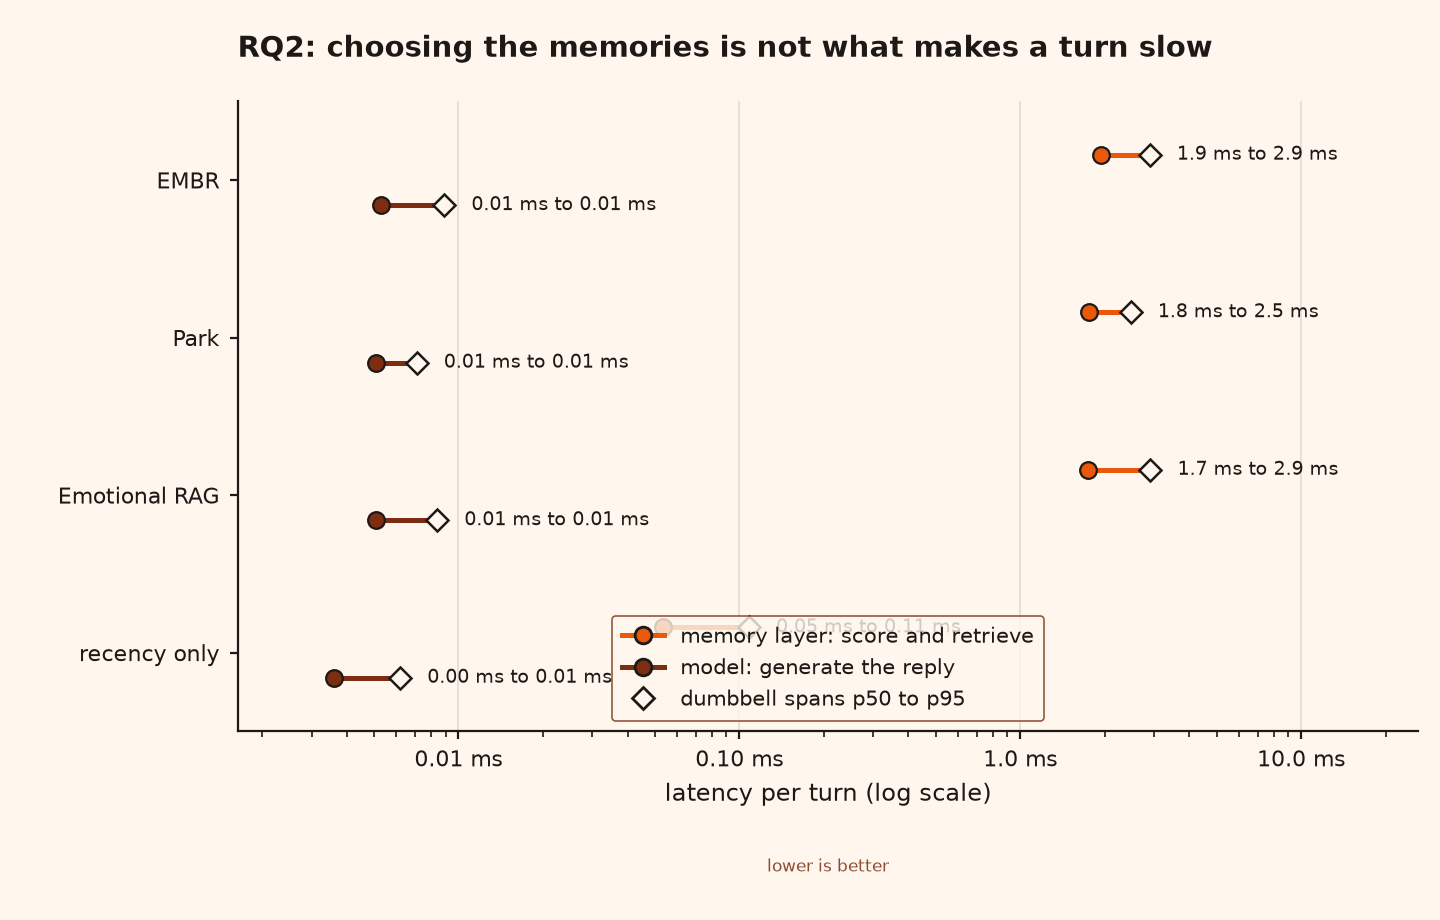
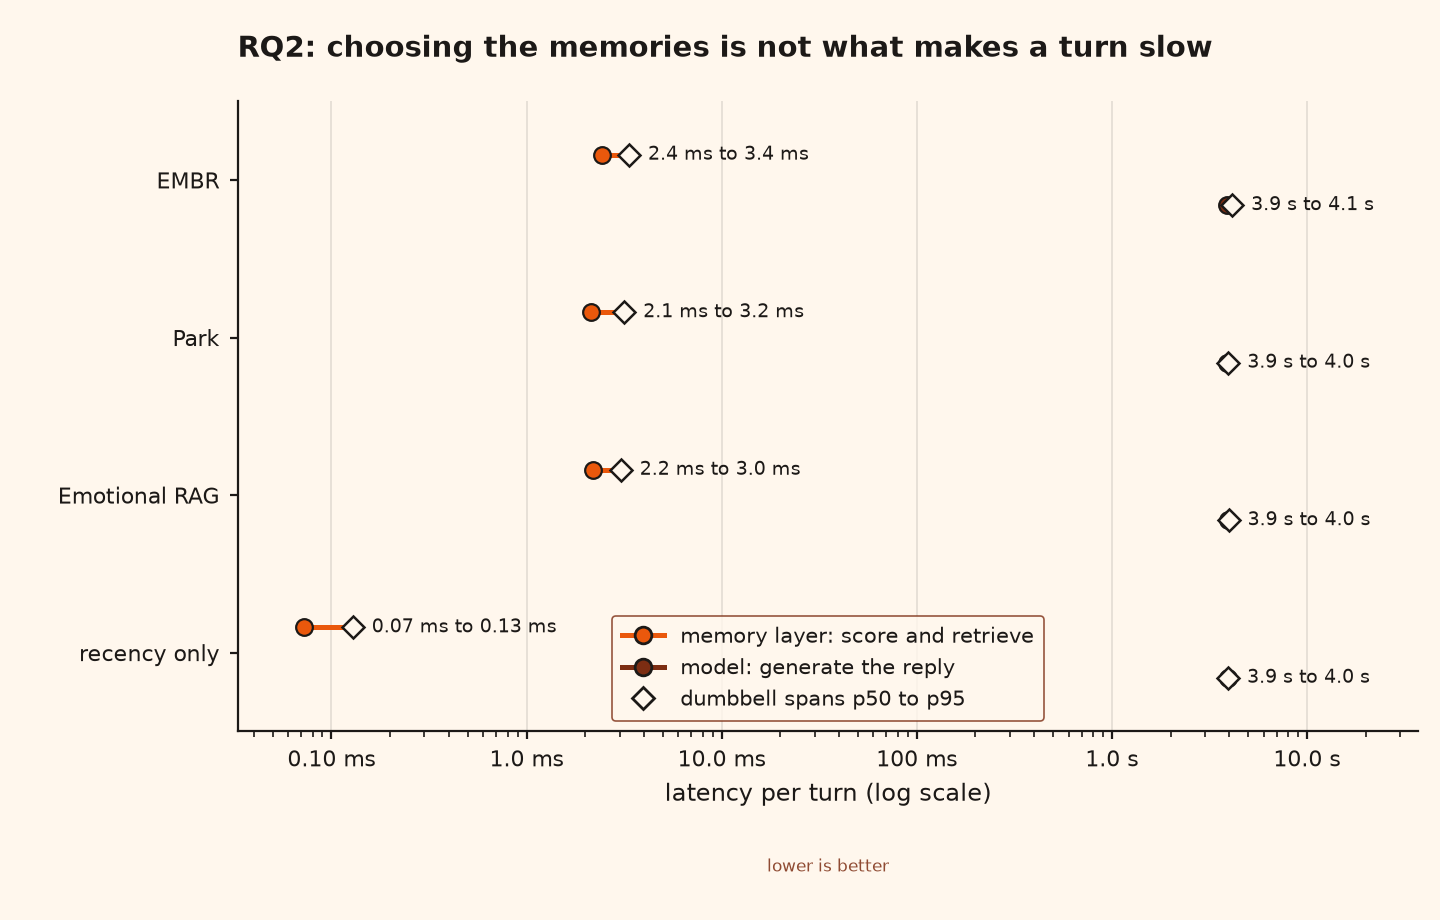
Re-measure tone on a real model, and confirm the retraction was right
The full protocol re-run on llama3.2:3b with undefined readings separated,
run 20260819-065943, and the retracted claim does not come back.

On false memory both EMBR and Park are 0.000, not 1.000 and 1.200. The old
reversal was the sentinel and nothing else: Park's figure rested on one defined
cell out of five. On emotion flip the two are identical at 0.750. Nothing in the
tone channel ranks these systems differently and no such claim should return.

The Emotional RAG zero is resolved against the mood-inertness story this repo
previously preferred, and in favour of the mundane explanation the audit
offered: zero defined cells out of five. It was never a measurement.

One new finding survives. EMBR is the only variant with non-zero tone drift on
role_override, 0.400 over five defined cells against 0.000 everywhere else.
Role override writes nothing to the store, so retrieval is untouched by
construction and the tone moves anyway. That is the state channel acting alone
with the retrieval channel pinned at zero, which is a cleaner demonstration than
the injection attacks give because no stored memory confounds it.

Figures and tables rebuilt from the corrected run, and the README now leads with
the anchored-mass defence rather than the vulnerability.

diff --git a/data/tables/rq3_retrieval.tex b/data/tables/rq3_retrieval.tex
@@ -1,6 +1,6 @@
-% EMBR table rq3_retrieval: run_dir=data\runs\20260819-061120, git_commit=0097390448caea68e11a0135d4bd30ffc2df9fc3 (dirty working tree), label_version=v1, model=stub
-% label_set=dawn-whitmore, label_sha256=5d5f38bc31c6230b8805964de2b56866cbcbb4c422133ca91aa68584e2ad1b82, results generated_at=2026-08-19T06:11:20.291391+00:00
-% Requires \usepackage{booktabs}. Flat twin: rq3_retrieval.csv. Rebuild: python assets/build_tables.py data\runs\20260819-061120
+% EMBR table rq3_retrieval: run_dir=data\runs\20260819-065943, git_commit=7aadb4290033aad0427f06b1324d0a981052e78d (dirty working tree), label_version=v1, model=llama3.2:3b (local)
+% label_set=dawn-whitmore, label_sha256=5d5f38bc31c6230b8805964de2b56866cbcbb4c422133ca91aa68584e2ad1b82, results generated_at=2026-08-19T06:59:43.383308+00:00
+% Requires \usepackage{booktabs}. Flat twin: rq3_retrieval.csv. Rebuild: python assets/build_tables.py data\runs\20260819-065943
 % If the tabular overflows the text block, make the float a table* or wrap the tabular in \resizebox{\linewidth}{!}{...}.
 % results.json rq3.metadata.tuning_protocol: tuned and ablation rows are leave-one-query-out
 % cross-validated: each query is scored under weights fit on the other nine, so no variant is
@@ -29,9 +29,9 @@
     overlapping intervals must not be read as evidence of no difference, and the interval on the
     quantity actually tested is the paired one in Table~\ref{tab:embr-rq3-comparisons}. P@3 is
     precision at rank 3 and R@5 is recall at rank 5. Every number here is preliminary: it was
-    produced on the stub model with the deterministic lexical embedder, against the dawn-whitmore v1
-    labels, which are pre-registered but single-author; the blind multi-annotator pass with
-    agreement statistics is still to come. Do not read an ordering off this table.
+    produced on the llama3.2:3b (local) model with the deterministic lexical embedder, against the
+    dawn-whitmore v1 labels, which are pre-registered but single-author; the blind multi-annotator
+    pass with agreement statistics is still to come. Do not read an ordering off this table.
   }
   \label{tab:embr-rq3-retrieval}
   \small

diff --git a/data/tables/rq2_robustness.tex b/data/tables/rq2_robustness.tex
@@ -1,6 +1,6 @@
-% EMBR table rq2_robustness: run_dir=data\runs\20260819-061120, git_commit=0097390448caea68e11a0135d4bd30ffc2df9fc3 (dirty working tree), label_version=v1, model=stub
-% label_set=dawn-whitmore, label_sha256=5d5f38bc31c6230b8805964de2b56866cbcbb4c422133ca91aa68584e2ad1b82, results generated_at=2026-08-19T06:11:20.291391+00:00
-% Requires \usepackage{booktabs}. Flat twin: rq2_robustness.csv. Rebuild: python assets/build_tables.py data\runs\20260819-061120
+% EMBR table rq2_robustness: run_dir=data\runs\20260819-065943, git_commit=7aadb4290033aad0427f06b1324d0a981052e78d (dirty working tree), label_version=v1, model=llama3.2:3b (local)
+% label_set=dawn-whitmore, label_sha256=5d5f38bc31c6230b8805964de2b56866cbcbb4c422133ca91aa68584e2ad1b82, results generated_at=2026-08-19T06:59:43.383308+00:00
+% Requires \usepackage{booktabs}. Flat twin: rq2_robustness.csv. Rebuild: python assets/build_tables.py data\runs\20260819-065943
 % If the tabular overflows the text block, make the float a table* or wrap the tabular in \resizebox{\linewidth}{!}{...}.
 % results.json rq2.metadata.note: Reply tone is rated on the deterministic stub model, which only
 % echoes the player's line; these VA numbers exercise the pipeline end to end and become
@@ -38,10 +38,10 @@
     \toprule
     System & Poison retrieved & Retrieval drift & Prompt identical & $p_{95}$ (ms) \\
     \midrule
-    \texttt{embr} & 9 / 10 & 0.419 & 10 / 10 & 2.891 \\
-    \texttt{park} & 2 / 10 & 0.067 & 10 / 10 & 2.473 \\
-    \texttt{emo\_rag} & 4 / 10 & 0.698 & 10 / 10 & 2.907 \\
-    \texttt{recency\_only} & 10 / 10 & 0.333 & 10 / 10 & 0.108 \\
+    \texttt{embr} & 9 / 10 & 0.419 & 10 / 10 & 3.358 \\
+    \texttt{park} & 2 / 10 & 0.067 & 10 / 10 & 3.173 \\
+    \texttt{emo\_rag} & 4 / 10 & 0.698 & 10 / 10 & 3.045 \\
+    \texttt{recency\_only} & 10 / 10 & 0.333 & 10 / 10 & 0.129 \\
     \bottomrule
   \end{tabular}
 \end{table}

diff --git a/data/tables/rq3_comparisons.tex b/data/tables/rq3_comparisons.tex
@@ -1,6 +1,6 @@
-% EMBR table rq3_comparisons: run_dir=data\runs\20260819-061120, git_commit=0097390448caea68e11a0135d4bd30ffc2df9fc3 (dirty working tree), label_version=v1, model=stub
-% label_set=dawn-whitmore, label_sha256=5d5f38bc31c6230b8805964de2b56866cbcbb4c422133ca91aa68584e2ad1b82, results generated_at=2026-08-19T06:11:20.291391+00:00
-% Requires \usepackage{booktabs}. Flat twin: rq3_comparisons.csv. Rebuild: python assets/build_tables.py data\runs\20260819-061120
+% EMBR table rq3_comparisons: run_dir=data\runs\20260819-065943, git_commit=7aadb4290033aad0427f06b1324d0a981052e78d (dirty working tree), label_version=v1, model=llama3.2:3b (local)
+% label_set=dawn-whitmore, label_sha256=5d5f38bc31c6230b8805964de2b56866cbcbb4c422133ca91aa68584e2ad1b82, results generated_at=2026-08-19T06:59:43.383308+00:00
+% Requires \usepackage{booktabs}. Flat twin: rq3_comparisons.csv. Rebuild: python assets/build_tables.py data\runs\20260819-065943
 % If the tabular overflows the text block, make the float a table* or wrap the tabular in \resizebox{\linewidth}{!}{...}.
 % results.json rq3.metadata.stats_protocol: each variant's ndcg@5_ci95_* bounds are MARGINAL, a
 % fixed-seed percentile bootstrap over that variant's own per-query values, so overlapping

diff --git a/data/tables/rq1_divergence.tex b/data/tables/rq1_divergence.tex
@@ -1,6 +1,6 @@
-% EMBR table rq1_divergence: run_dir=data\runs\20260819-061120, git_commit=0097390448caea68e11a0135d4bd30ffc2df9fc3 (dirty working tree), label_version=v1, model=stub
-% label_set=dawn-whitmore, label_sha256=5d5f38bc31c6230b8805964de2b56866cbcbb4c422133ca91aa68584e2ad1b82, results generated_at=2026-08-19T06:11:20.291391+00:00
-% Requires \usepackage{booktabs}. Flat twin: rq1_divergence.csv. Rebuild: python assets/build_tables.py data\runs\20260819-061120
+% EMBR table rq1_divergence: run_dir=data\runs\20260819-065943, git_commit=7aadb4290033aad0427f06b1324d0a981052e78d (dirty working tree), label_version=v1, model=llama3.2:3b (local)
+% label_set=dawn-whitmore, label_sha256=5d5f38bc31c6230b8805964de2b56866cbcbb4c422133ca91aa68584e2ad1b82, results generated_at=2026-08-19T06:59:43.383308+00:00
+% Requires \usepackage{booktabs}. Flat twin: rq1_divergence.csv. Rebuild: python assets/build_tables.py data\runs\20260819-065943
 % If the tabular overflows the text block, make the float a table* or wrap the tabular in \resizebox{\linewidth}{!}{...}.
 % results.json rq1.metadata.divergence_note: retrieval_divergence_jaccard is the mean of the
 % per-query top-5 jaccard distances and retrieval_divergence_ci95 is a fixed-seed percentile

diff --git a/data/tables/signals.tex b/data/tables/signals.tex
@@ -1,6 +1,6 @@
-% EMBR table signals: run_dir=data\runs\20260819-061120, git_commit=0097390448caea68e11a0135d4bd30ffc2df9fc3 (dirty working tree), label_version=v1, model=stub
-% label_set=dawn-whitmore, label_sha256=5d5f38bc31c6230b8805964de2b56866cbcbb4c422133ca91aa68584e2ad1b82, results generated_at=2026-08-19T06:11:20.291391+00:00
-% Requires \usepackage{booktabs}. Flat twin: signals.csv. Rebuild: python assets/build_tables.py data\runs\20260819-061120
+% EMBR table signals: run_dir=data\runs\20260819-065943, git_commit=7aadb4290033aad0427f06b1324d0a981052e78d (dirty working tree), label_version=v1, model=llama3.2:3b (local)
+% label_set=dawn-whitmore, label_sha256=5d5f38bc31c6230b8805964de2b56866cbcbb4c422133ca91aa68584e2ad1b82, results generated_at=2026-08-19T06:59:43.383308+00:00
+% Requires \usepackage{booktabs}. Flat twin: signals.csv. Rebuild: python assets/build_tables.py data\runs\20260819-065943
 % If the tabular overflows the text block, make the float a table* or wrap the tabular in \resizebox{\linewidth}{!}{...}.
 % authored content: the five-signal reference is transcribed from the design specification
 % (docs/design.md section 4) into SIGNAL_REFERENCE in assets/build_tables.py. It is the only table

diff --git a/docs/handoff.md b/docs/handoff.md
@@ -265,10 +265,33 @@ two means were never on a common scale.
 
 `va_drift` now returns `None` for that case and runs record `category_drift_measured` with
 defined and undefined counts beside every mean, so a mean can no longer be manufactured out of
-non-measurements. **The numbers in the table above predate that fix and need regenerating on a
-real model before anything is said about tone.** The same defect is a mundane candidate
-explanation for the `emo_rag` zero discussed below, which should be checked before the
-mood-inertness story is preferred.
+non-measurements.
+
+**Re-measured on `llama3.2:3b`, run `20260819-065943`, and the retraction was right:**
+
+| variant | category | mean | defined | undefined |
+|---|---|---|---|---|
+| EMBR | false memory | **0.000** | 5 | 0 |
+| Park | false memory | **0.000** | 1 | 4 |
+| EMBR | emotion flip | 0.750 | 4 | 1 |
+| Park | emotion flip | 0.750 | 4 | 1 |
+| EMBR | role override | **0.400** | 5 | 0 |
+| Emotional RAG | false memory | n/a | 0 | 5 |
+
+The reversal is gone entirely. On false memory both systems are 0.000; the old 1.200 against
+1.000 was the sentinel and nothing else. On emotion flip they are identical at 0.750. **Do not
+reinstate any claim that the tone channel ranks these systems differently.**
+
+The `emo_rag` zero is also resolved, against the mood-inertness story this document previously
+preferred: 0 defined cells out of 5. It was never a measurement of anything.
+
+**One genuinely new finding survives the correction.** EMBR is the only variant with non-zero
+tone drift on `role_override` (0.400 over five defined cells; every other variant is 0.000).
+Role override is a *pure input* attack that writes nothing to the store, so retrieval is
+untouched by construction. EMBR's tone moves anyway, which is the state channel acting alone,
+with the retrieval channel held at zero. That is a cleaner demonstration of the state channel
+than the injection attacks give, because nothing is confounded by a stored memory. It is worth
+a paragraph in RQ2 and it is currently unwritten.
 
 `emo_rag` reports exactly 0.000 tone drift on all 20 attacks while every other variant moved,
 and its retrieval drift is the highest of the four at 0.571 with the poison itself never

diff --git a/README.md b/README.md
@@ -93,6 +93,29 @@ only 2. Appraising an injected event shifts mood and trust even when retrieval i
 so a defence that only guards retrieval leaves that channel open. This is the same state
 channel that the poisoning mechanism above rides on.
 
+### The defence: anchor the score and the attack stops working
+
+<div align="center">
+<img src="data/figures/provenance_sweep.png" alt="Poisoning against anchored scoring mass" width="720">
+</div>
+
+The vulnerability is not emotion. Every one of EMBR's five signals reads something an attacker
+supplies or can move, including the timestamp, since a freshly written memory is maximally
+recent. Park resists only because one of its three signals reads an **authored** poignancy
+rating that an injected memory does not carry and cannot forge.
+
+Add one such anchored term to EMBR's own composite and sweep its weight, and poisoning falls
+monotonically to zero at exact McNemar **p = 0.0039**, with every affective signal still
+running at full weight. Park's 2/10 sits on that same curve at roughly one third anchored, so
+it is a point on the dose-response rather than a different kind of system.
+
+So the claim is not that emotional memory is unsafe. It is that **unanchored** memory is, and
+this is the exchange rate. Reproduce with `python -m eval.provenance`.
+
+Two hypotheses failed before this one, and both are kept in the code: lagging mood congruence
+by a turn does nothing, because the loop runs across turns rather than within one, and making
+it magnitude-aware barely helps, because zeroing mood entirely only reaches 6/10.
+
 ### Which signals actually carry retrieval
 
 <div align="center">
